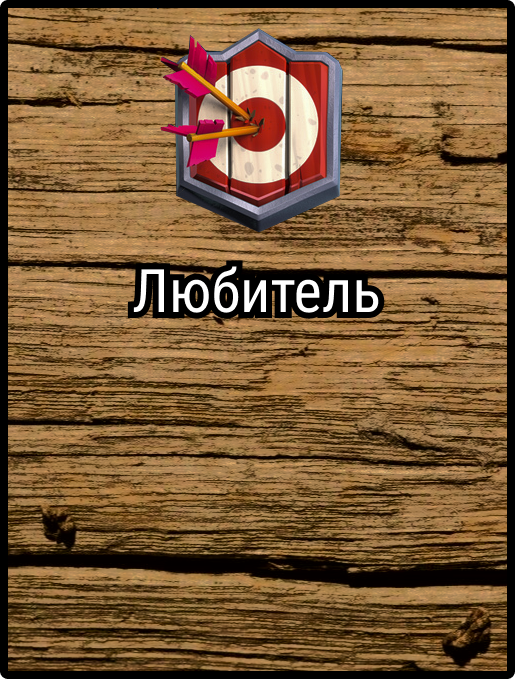
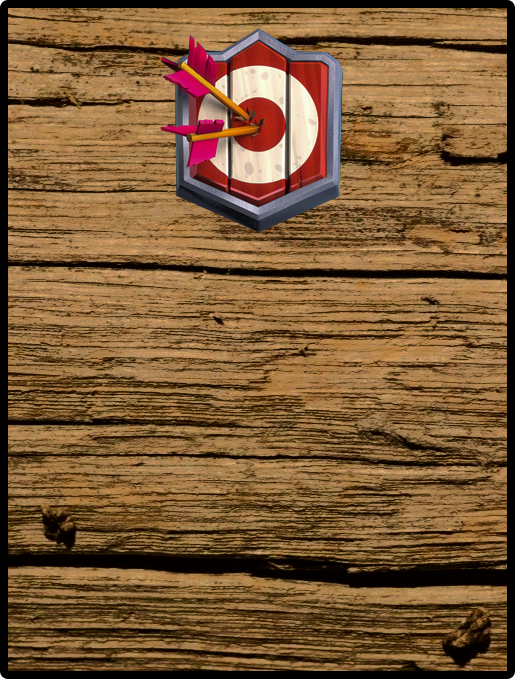
Added a lot of different things

Changed region(s): [[0.2485, 0.3711, 0.7456, 0.4948]]

diff --git a/styles.css b/styles.css
@@ -5,10 +5,12 @@
 body, html {
     margin: 0;
     width: 100%;
+    font-family: Royale, sans-serif;
 }
 #menu {
     display: flex;
     position: fixed;
+    z-index: 1;
     justify-content: space-between;
     height: 7%;
     width: 90%;
@@ -35,7 +37,6 @@ body, html {
     flex-grow: 1;
     align-items: center;
     justify-content: center;
-    font-family: Royale, sans-serif;
     font-size: 12px;
     color: #f5f5f5;
     text-decoration: none;
@@ -43,10 +44,30 @@ body, html {
 main {
 
 }
+.description {
+    height: 100%;
+    width: 45%;
+    display: flex;
+    flex-direction: column;
+    align-items: center;
+    justify-content: center;
+    color: white;
+    margin-right: 20px;
+}
+h1 {
+    margin: 0;
+}
+pre {
+    margin: 16px 0;
+    font-family: inherit;
+}
 .about {
     height: 100vh;
     background: url("images/about_back.png");
     background-size: cover;
+    display: flex;
+    justify-content: right;
+    align-items: center;
 }
 .about img {
     width: 100%;
@@ -70,8 +91,33 @@ main {
     display: flex;
     justify-content: center;
 }
+.tariff a {
+    margin-top: 22%;
+    width: 15%;
+    position: absolute;
+    background: yellow;
+    border-radius: 2%;
+    text-align: center;
+}
 .tariff img{
     width: 65%;
+}
+.tariff h2{
+    margin-top: 12%;
+    position: absolute;
+    color: yellow;
+    text-shadow: #000 2px 0 2px, #000 0 2px 2px, #000 0 -2px 2px, #000 -2px 0 2px;
+}
+.tariff a h3 {
+    color: white;
+    text-shadow: #000 2px 0 2px, #000 0 2px 2px, #000 0 -2px 2px, #000 -2px 0 2px;
+}
+.tariff pre{
+    margin-top: 15%;
+    position: absolute;
+    color: #ffffff;
+    font-size: 17px;
+    text-shadow: #000 2px 0 2px, #000 0 2px 2px, #000 0 -2px 2px, #000 -2px 0 2px;
 }
 .reviews{
     height: 100vh;
@@ -86,6 +132,7 @@ main {
 }
 
 #popup_container {
+    z-index: 2;
     overflow: hidden;
     background-color: rgba(0, 0, 0, 0.5);
     position: fixed;
@@ -110,6 +157,7 @@ main {
 #pop_up_hide {
     display: flex;
     float: right;
+    z-index: 2;
     background-color: transparent;
     border-color: transparent;
     border-radius: 5px;

diff --git a/index.html b/index.html
@@ -54,22 +54,56 @@
 </header>
 <main>
     <div class="about" id="about">
+        <div class="description">
+            <h1>CLASH BOOST</h1>
+            <pre>
+                Lorem ipsum dolor sit amet,
+                consectetur adipiscing elit.
+                Aenean nisi tortor, posuere et porttitor at,
+                consequat a est.
+                Integer blandit lacus leo,
+                eget condimentum mi ultrices nec.
+                Praesent iaculis, orci euismod viverra maximus,
+                libero eros ullamcorper dui,
+                vel congue velit tortor non magna.
+            </pre>
+        </div>
+
     </div>
     <div class="prices" id="prices">
         <ul class="prices_list">
-            <li class="tariff" id="standart">
-                <img src="images/Standart.png">
+
+            <li class="tariff" >
+                <h2>Новичок</h2>
+                <pre>
+Lorem ipsum dolor
+sit amet, consectetur
+adipiscing elit.
+                </pre>
+                <a href="google.com"><h3>BUY</h3></a>
+                <img src="images/Standart.png" >
             </li>
-            <li class="tariff" id="medium">
+            <li class="tariff" >
+                <h2>Любитель</h2>
+                <pre>
+Lorem ipsum dolor
+sit amet, consectetur
+adipiscing elit.
+                </pre>
                 <img src="images/Medium.png">
             </li>
-            <li class="tariff" id="pro">
+            <li class="tariff" >
+                <h2>PRO</h2>
+                <pre>
+Lorem ipsum dolor
+sit amet, consectetur
+adipiscing elit.
+                </pre>
                 <img src="images/Pro.png"/>
             </li>
         </ul>
     </div>
     <div class="reviews" id="reviews">
-
     </div>
 </main>
 </body>
